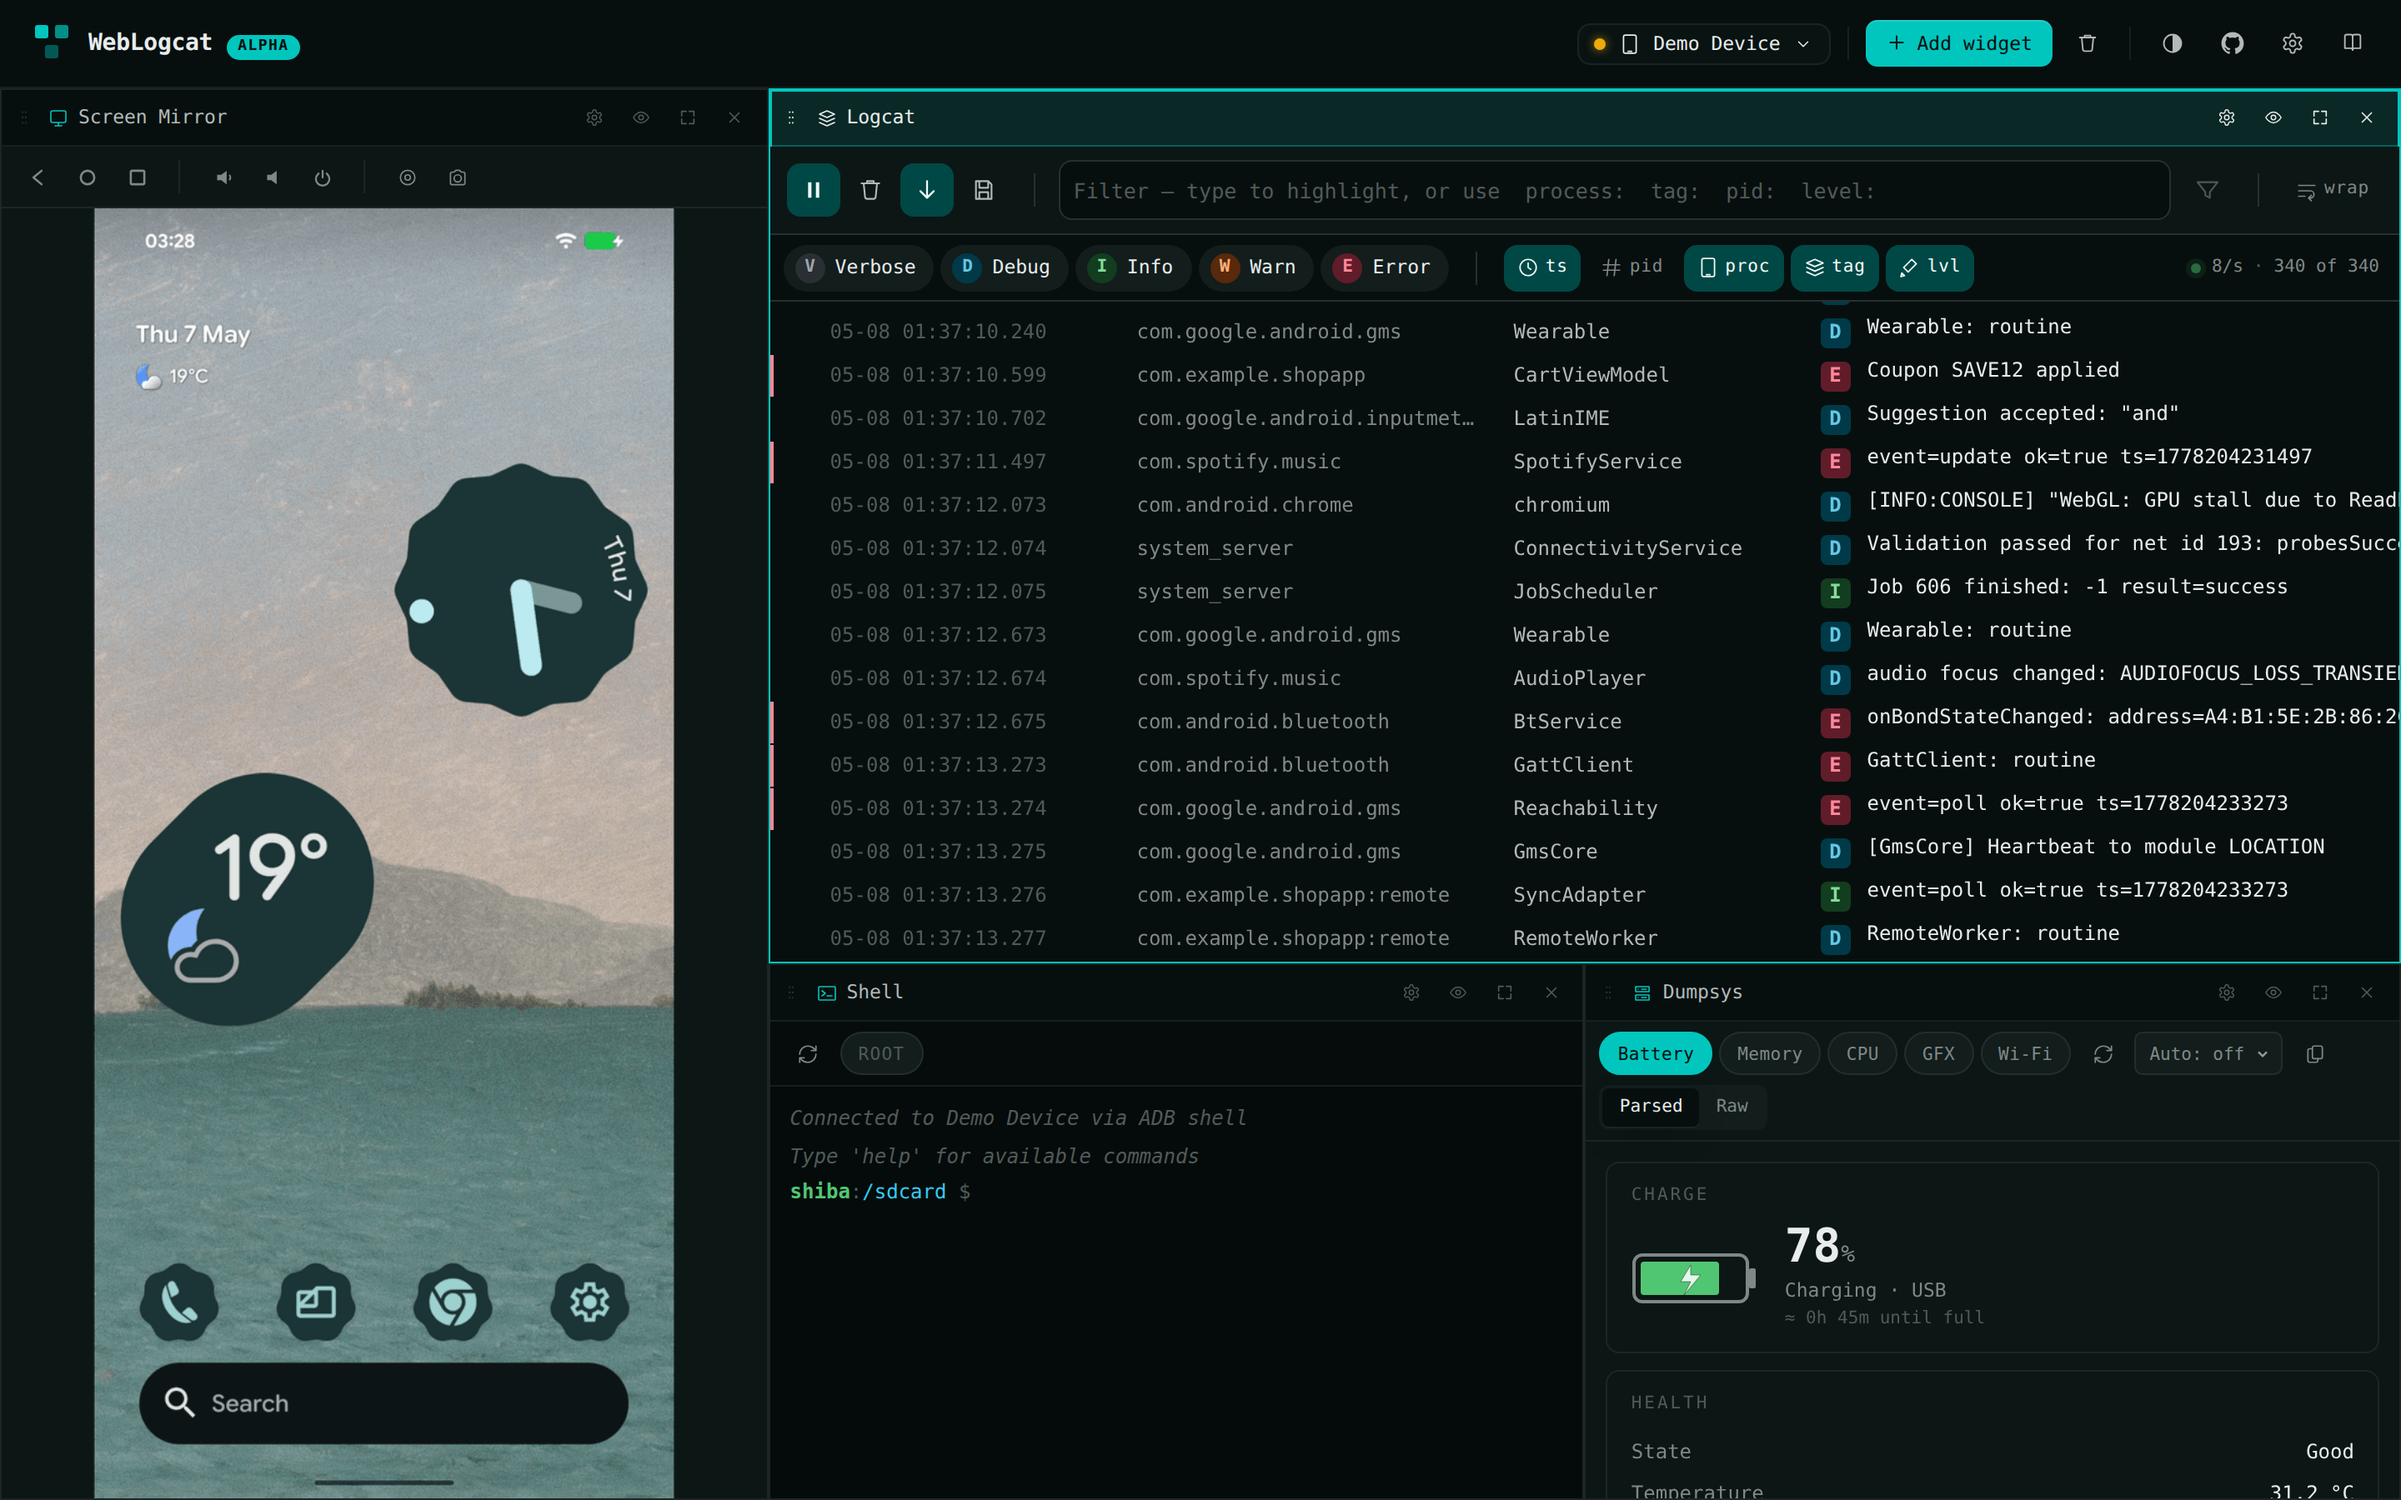
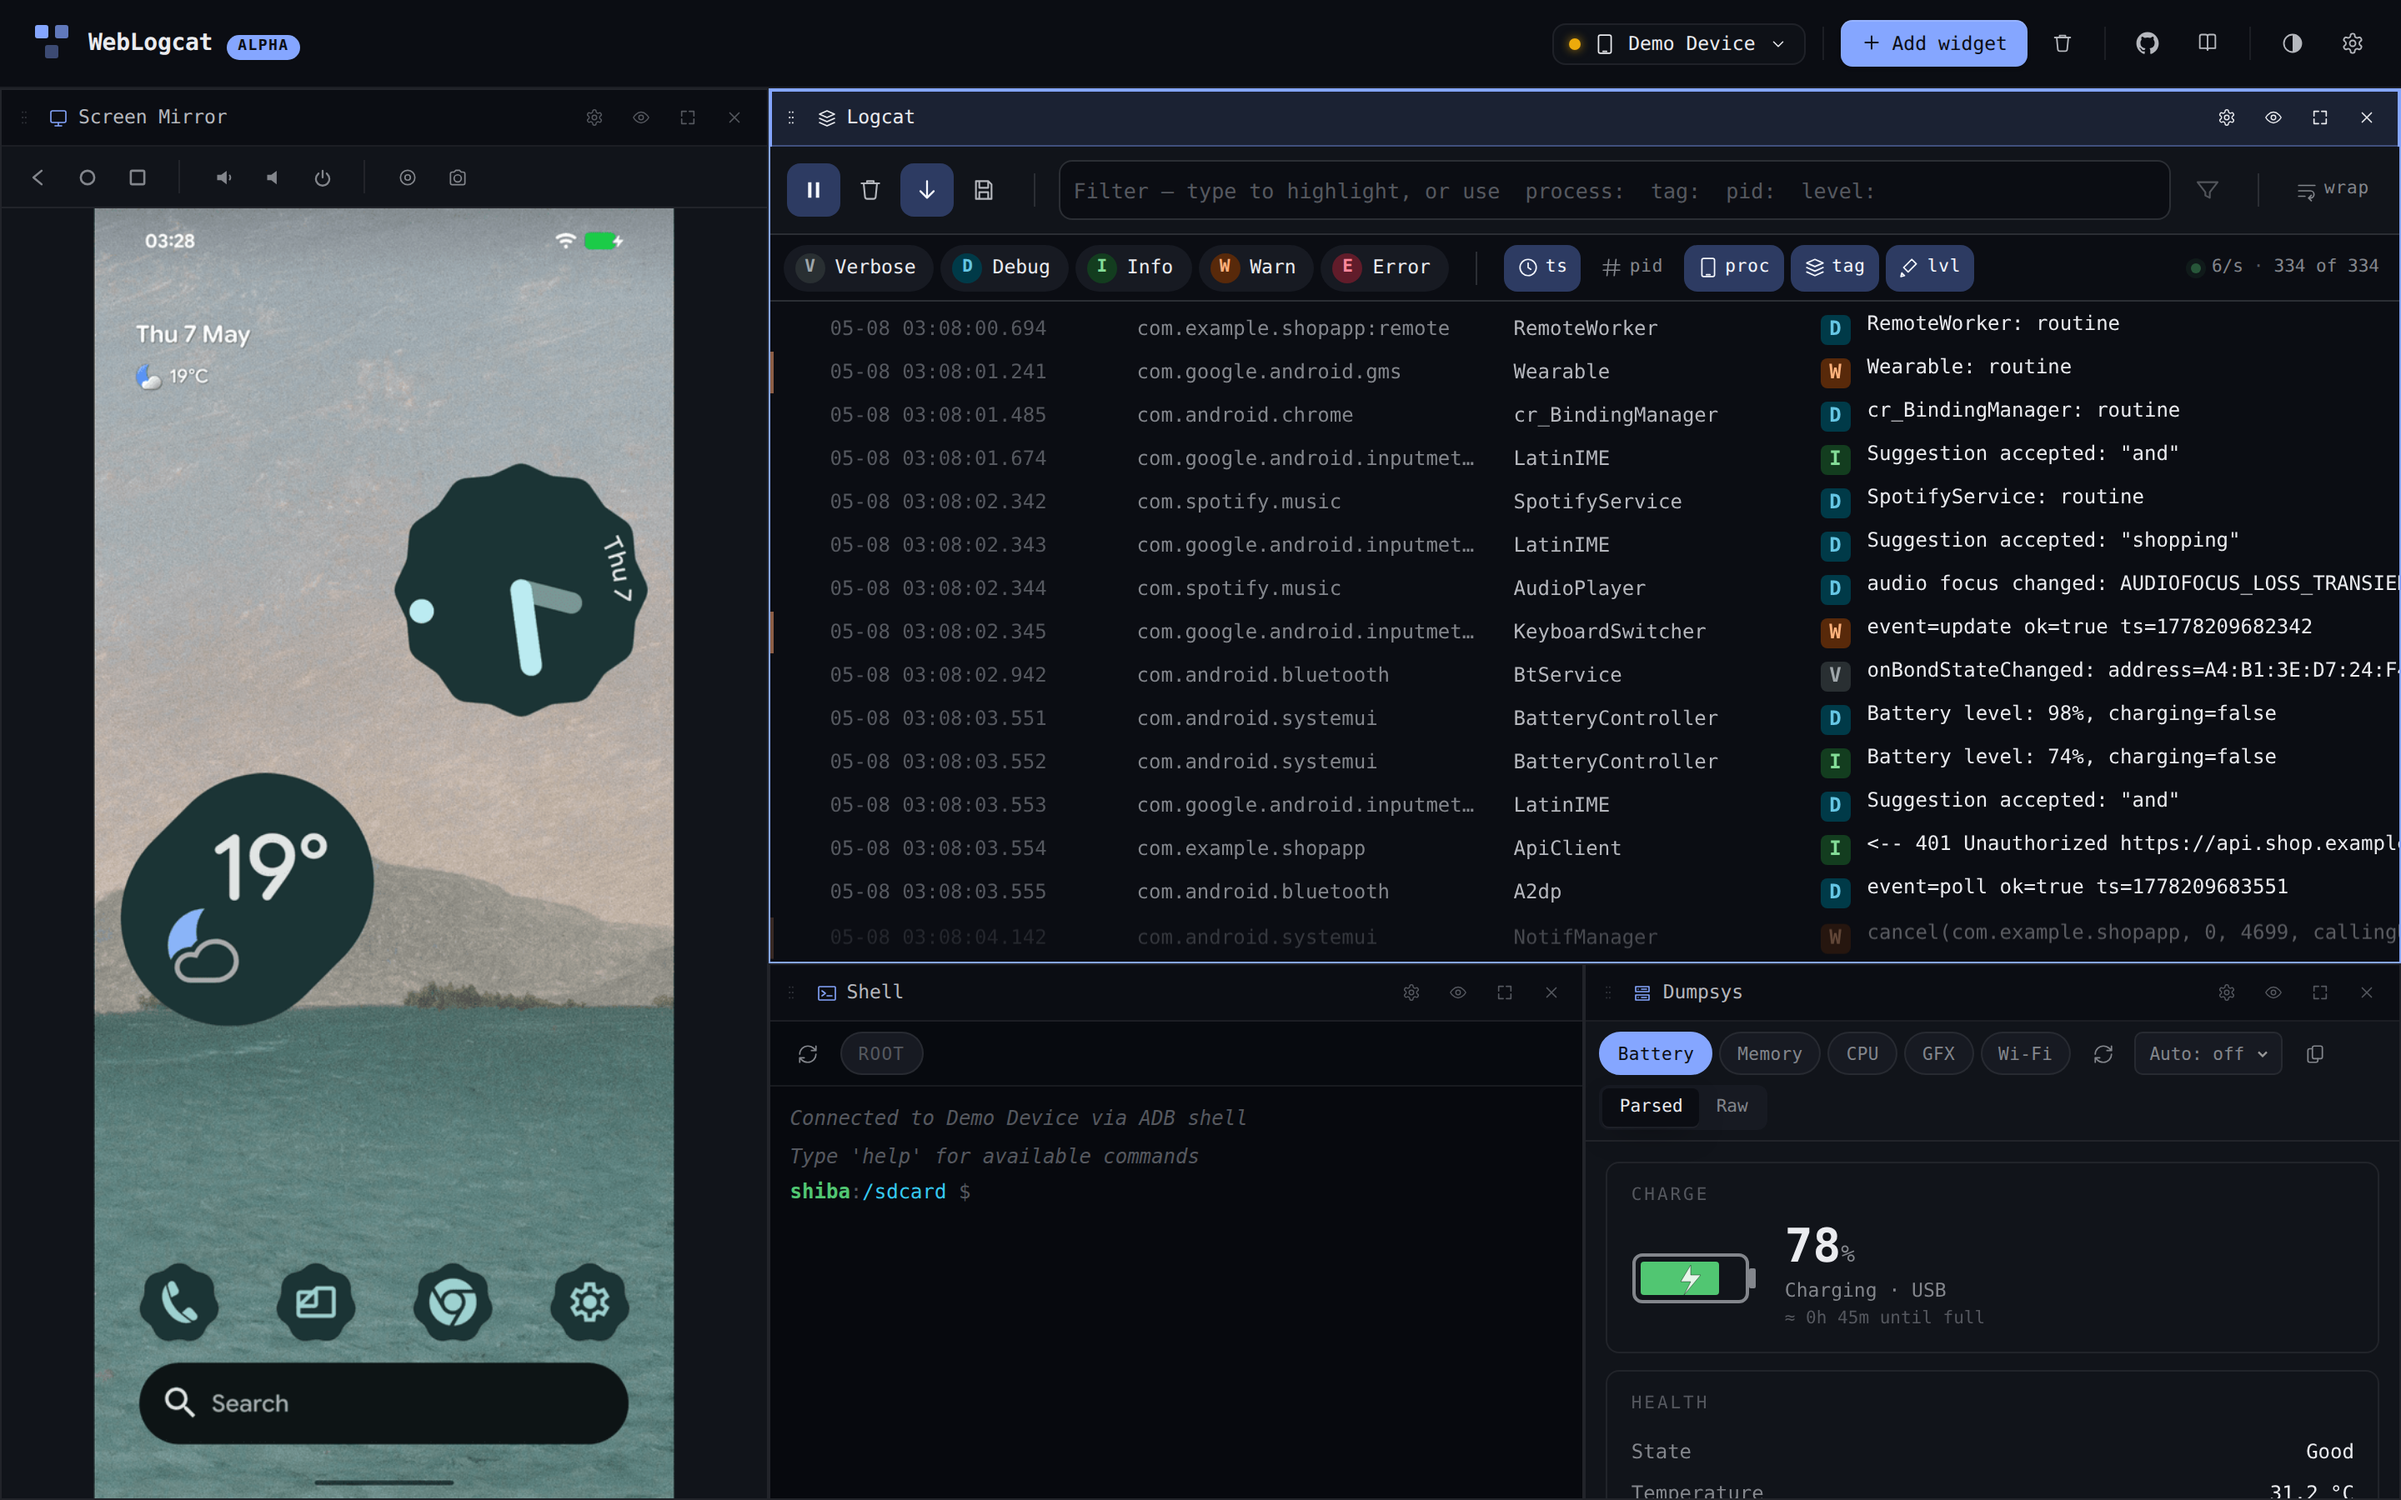
Fix landing centring; switch hero accent to indigo
The previous attempt at the multi-line heading used `text-wrap:
balance` to balance line widths. In Chromium that property
side-effects an implicit `max-width` on the affected element
(here ~576px in a 1100px container) so the .name span ended up
narrower than its parent .heading — and "WebLogcat" centred
inside its own narrower box rather than the heading box, sitting
visibly off the column axis even though every line called for
text-align: center.

Probed via Playwright + getComputedStyle:
  heading: width 768, mid 720
  name:    width 576, mid 624   ← off by 96px
  text:    width 576, mid 624   ← same
  tagline: width 768, mid 720
  actions: width 780, mid 720

Drop `text-wrap: balance` (replace with the side-effect-free
`text-wrap: pretty`) and force `width: 100%` + `max-width: none`
on the heading children so they fill the heading. Recheck:
  heading: mid 720
  name:    mid 720
  text:    mid 720
  tagline: mid 720
  actions: mid 720

Also: switch the README hero composition's accent from teal to
indigo so the dashboard screenshot's chrome reads as the same
brand as the docs site (which uses indigo at hue 268).
docs/bots/screenshots.md updated to reflect the new seeded tweak.

https://claude.ai/code/session_018GfNEcyQKxiSa1n1MY4JEB

diff --git a/docs/.vitepress/theme/style.css b/docs/.vitepress/theme/style.css
@@ -64,60 +64,74 @@
 
 /* ---- Landing hero ---------------------------------------------------- */
 
-/* The default VPHero is a side-by-side flex with the screenshot
-   capped around 256–320px on the right and an absolutely-positioned
-   image-container that's hard to override cleanly. Instead of
-   fighting the absolute positioning, we restack the hero vertically:
-   title + actions on top, hero screenshot below at the full
-   container width. The capture has space to breathe and the title
-   gets its own block.
+/* The default VPHero is a flex layout (row at desktop, column on
+   mobile). To stack hero text + image cleanly and centre everything
+   horizontally on the page, switch the relevant nodes to plain
+   block + text-align so centring is unambiguous. Without this,
+   the default `.heading { display: flex; flex-wrap: wrap }` breaks
+   the heading into one flex-row per visual line and aligns each
+   line independently, making "WebLogcat" sit at a different
+   horizontal centre than the multi-line text below it.
    `!important` because the default rules are scoped via
    `[data-v-...]` attribute selectors that out-specify ours otherwise. */
 .VPHome .VPHero .container {
-  flex-direction: column !important;
-  align-items: stretch !important;
+  display: block !important;
 }
 .VPHome .VPHero .main {
+  display: block !important;
   text-align: center !important;
   max-width: 1100px !important;
   margin: 0 auto !important;
 }
 .VPHome .VPHero .heading {
-  justify-content: center !important;
-  /* `text-wrap: balance` makes the heading fall on roughly equal
-     line lengths instead of leaving a short orphan tail. Without
-     it, "Android device inspector in the browser." would split
-     into "Android device" / "inspector in the" / "browser." with
-     visibly different line widths from "WebLogcat" above; with
-     balance the two blocks line up. Supported in Chromium 114+,
-     Firefox 121+; older browsers fall back to the default wrap
-     and the heading still reads, just less symmetrically. */
-  text-wrap: balance;
+  /* Replace the default flex with a block so `text-align: center`
+     governs every line. Each line's centre then sits on the same
+     vertical axis — the heading reads as a single coherent block
+     instead of a stack of independently-centred segments. */
+  display: block !important;
+  text-align: center !important;
 }
 .VPHome .VPHero .heading .name,
 .VPHome .VPHero .heading .text {
-  text-wrap: balance;
+  /* Force the spans to fill the heading so text-align: center
+     resolves against the same width every line. Without
+     `max-width: none`, the .name span gets an implicit cap from
+     Chromium's text-wrap algorithm (~576px on a 1100px container),
+     which leaves "WebLogcat" sitting at a different horizontal
+     centre than the wrapped lines below it.
+     `text-wrap: pretty` is purely a hyphenation hint with no
+     width-shrinkage side effect (unlike `balance`), so we keep it
+     for nicer line breaks where supported. */
+  display: block !important;
+  text-align: center !important;
+  width: 100% !important;
+  max-width: none !important;
+  text-wrap: pretty;
+}
+.VPHome .VPHero .tagline {
+  text-align: center !important;
+  max-width: 100% !important;
+  margin-left: auto !important;
+  margin-right: auto !important;
 }
 .VPHome .VPHero .actions {
+  display: flex !important;
   justify-content: center !important;
+  flex-wrap: wrap !important;
 }
 .VPHome .VPHero .image {
-  /* Reset the absolute-position dance and let the image flow as a
-     normal block below the title. The default VitePress rules at
-     ≥960px force `min-height: 100%`, `flex-grow: 1`, and
-     translate(-32px, -32px) on the inner container — explicitly
-     undo all of them. */
+  /* Now that `.container` is `display: block`, the image flows as
+     a normal block under `.main`. Centre it via `margin: 0 auto`
+     and explicitly undo every flex/positioning artefact the default
+     VitePress rules left behind (min-height: 100%, flex-grow: 1,
+     translate(-32px, -32px), order, etc.). */
+  display: block !important;
   position: static !important;
-  order: 2 !important;
   margin: 36px auto 0 !important;
   width: 100% !important;
   max-width: 1100px !important;
   min-height: 0 !important;
   height: auto !important;
-  flex-grow: 0 !important;
-  flex-shrink: 1 !important;
-  flex-basis: auto !important;
-  align-self: center !important;
 }
 .VPHome .VPHero .image-container {
   position: relative !important;

diff --git a/scripts/capture-feature-screenshots.spec.ts b/scripts/capture-feature-screenshots.spec.ts
@@ -136,12 +136,13 @@ test.describe('feature screenshots', () => {
   test('README hero shot', async ({ page }) => {
     await page.addInitScript(() => {
       localStorage.clear();
-      // Tweaks: teal accent + compact mode, performance mode on so
-      // tile transitions don't render mid-easing.
+      // Tweaks: indigo accent (matches the docs site's primary
+      // brand colour at hue 268) + compact mode, performance mode
+      // on so tile transitions don't render mid-easing.
       localStorage.setItem(
         'weblogcat:tweaks:v1',
         JSON.stringify({
-          accent: 'teal',
+          accent: 'indigo',
           compactMode: true,
           performanceMode: 'on',
         }),

diff --git a/docs/bots/screenshots.md b/docs/bots/screenshots.md
@@ -69,7 +69,8 @@ before navigating, so the shot is bit-stable across regens.
 
 The seeded state:
 
-- **Tweaks** — `accent: 'teal'`, `compactMode: true`,
+- **Tweaks** — `accent: 'indigo'` (matches the docs site's brand
+  colour at hue 268), `compactMode: true`,
   `performanceMode: 'on'`.
 - **Layout** — Mirror left (≈32% width), then a column split on the
   right with Logcat on top (≈62% height) and Shell | Dumpsys at the
